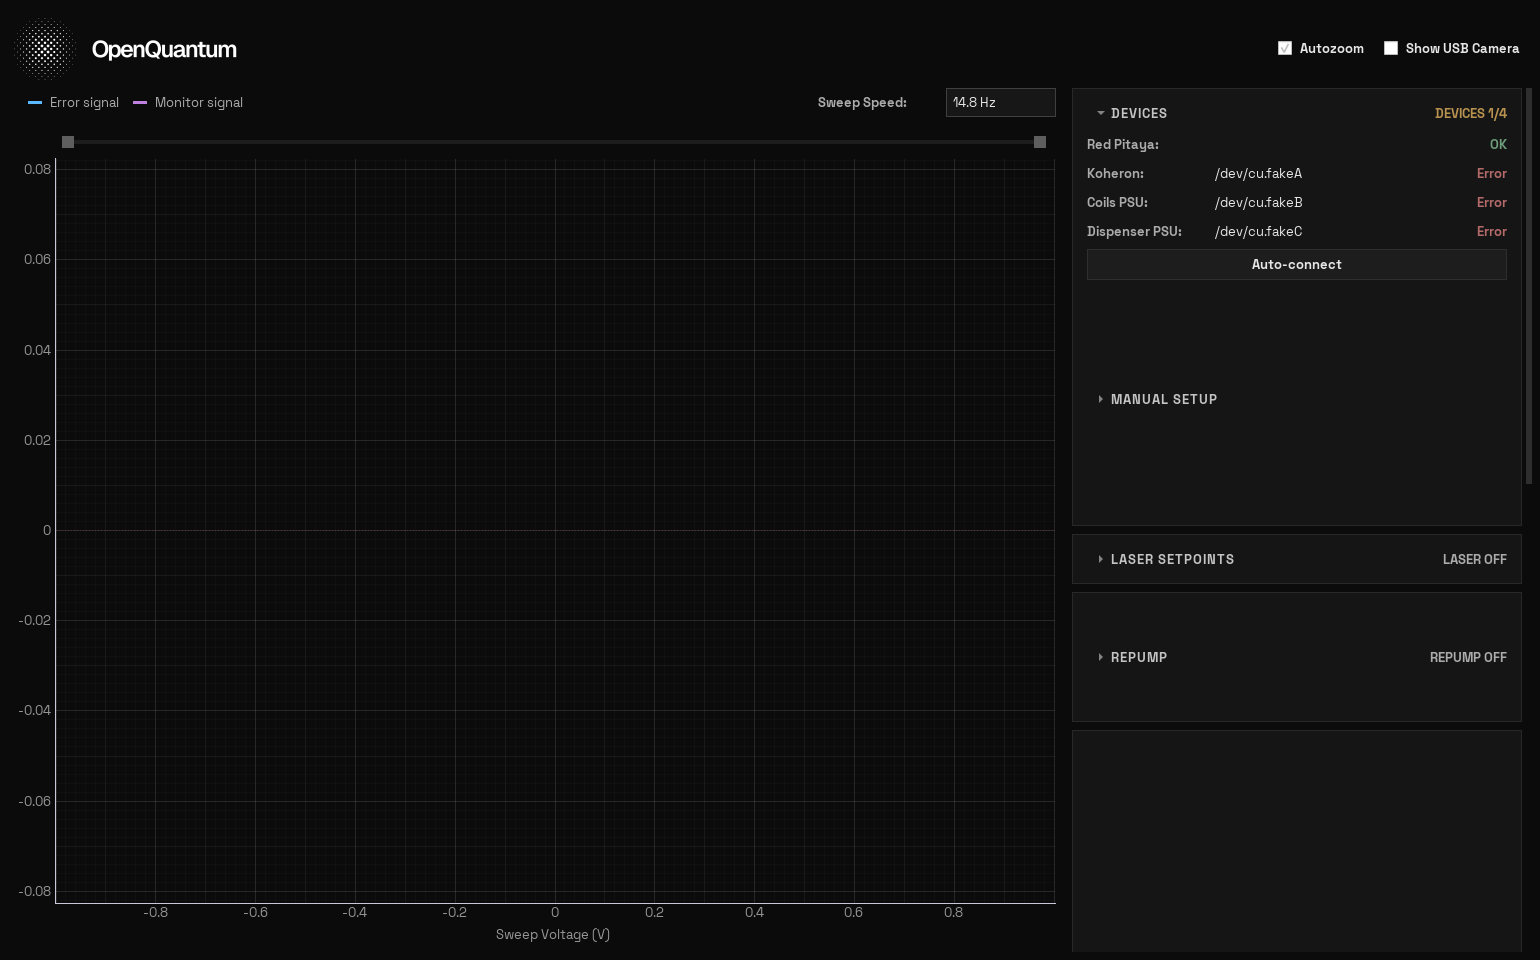
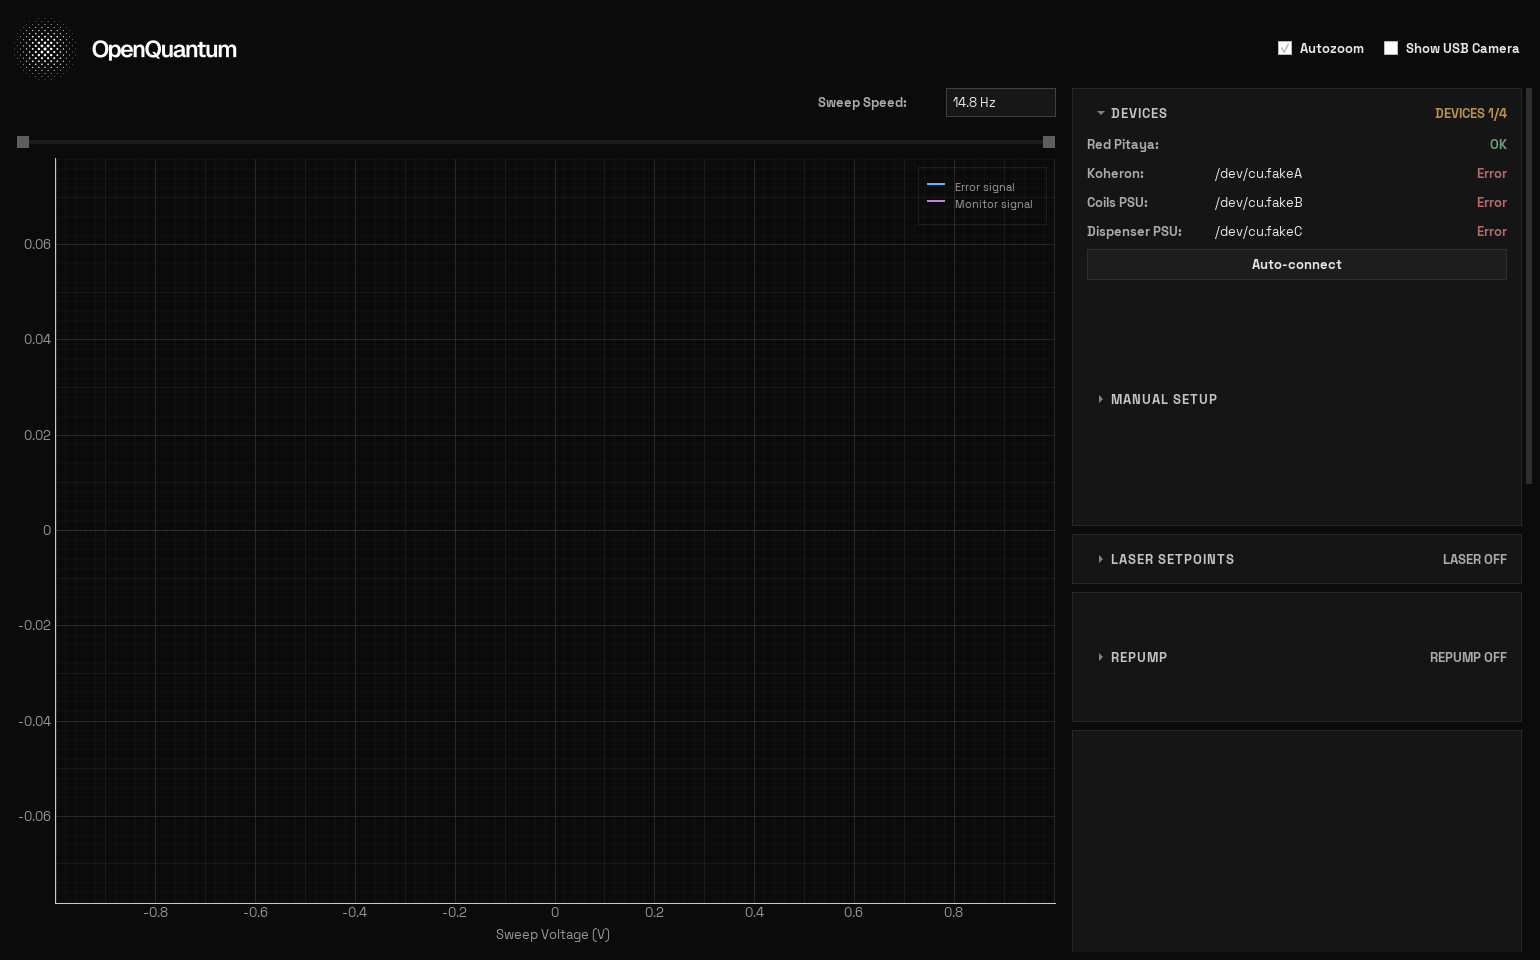
Put the legend back on the plot, compact; slider back to full width
The legend returns to the plot corner but much smaller than pyqtgraph's
default: 11px type, dimmer label colour, negative row spacing, and a
custom sample item drawing a 16px line rather than the default wide one.

addLegend has to run *before* the curves are created -- it only registers
named items added after it -- which is why the first attempt drew an
empty box.

The slider goes back to spanning the full widget width, so
_align_slider_to_plot and its resize/range hooks are gone.

diff --git a/linien_widget.py b/linien_widget.py
@@ -14,6 +14,20 @@ from superqt import QRangeSlider
 from styles import UI_FONT_PX, plot_label_style, style_plot_axes
 
 
+class _ShortLineSample(pg.ItemSample):
+    """Legend swatch: a short line instead of pyqtgraph's wide default."""
+
+    def boundingRect(self):
+        return QtCore.QRectF(0, 0, 16, 14)
+
+    def paint(self, painter, *args):
+        opts = self.item.opts
+        pen = pg.mkPen(opts["pen"])
+        pen.setWidth(2)
+        painter.setPen(pen)
+        painter.drawLine(0, 7, 16, 7)
+
+
 class LinienWidget(QtWidgets.QWidget):
     """Linien plot + lock controls for a Red Pitaya.
 
@@ -80,19 +94,8 @@ class LinienWidget(QtWidgets.QWidget):
                 background: #5e5e5e; width: 12px; border-radius: 0px; margin: -4px 0;
             }
         """)
-        # The slider spans the same x range as the plot below it, so it is
-        # inset to match the plot's data area. The y-axis width depends on
-        # the current tick labels, so the margin is applied on layout
-        # rather than hardcoded (see _align_slider_to_plot).
-        self._slider_box = QtWidgets.QWidget()
-        self._slider_box.setStyleSheet("background: transparent;")
-        self._slider_row = QtWidgets.QHBoxLayout(self._slider_box)
-        self._slider_row.setContentsMargins(0, 0, 0, 0)
-        self._slider_row.setSpacing(0)
-        self._slider_row.addWidget(self.xrange_slider)
-
         slider_proxy = QtWidgets.QGraphicsProxyWidget()
-        slider_proxy.setWidget(self._slider_box)
+        slider_proxy.setWidget(self.xrange_slider)
         self.pg_widget.addItem(slider_proxy, row=0, col=0)
         self.xrange_slider.valueChanged.connect(self._update_range)
 
@@ -131,15 +134,28 @@ class LinienWidget(QtWidgets.QWidget):
         self.original_xrange = self.plot.viewRange()[0]
         self.original_yrange = self.plot.viewRange()[1]
 
-        # No plot legend: the host places `self.legend` in the bar above,
-        # so nothing sits over the traces.
         self.ERROR_COLOR = "#5cb8ff"
         self.MONITOR_COLOR = "#c080e0"
+
+        # Compact legend in the corner: small type, tight spacing and a
+        # short sample line, so it reads as a key rather than a panel.
+        # Must be created *before* the curves -- addLegend only registers
+        # named items added after it.
+        self.legend = self.plot.addLegend(
+            offset=(-8, 8),
+            labelTextSize=f"{UI_FONT_PX - 2}px",
+            labelTextColor="#9a9a9a",
+            brush=pg.mkBrush(11, 11, 11, 170),
+            pen=pg.mkPen(40, 40, 40, 160),
+            verSpacing=-5,
+            horSpacing=4,
+            sampleType=_ShortLineSample,
+        )
+
         self.error_curve = self.plot.plot(
             pen=pg.mkPen(self.ERROR_COLOR, width=1.5), name="Error signal")
         self.monitor_curve = self.plot.plot(
             pen=pg.mkPen(self.MONITOR_COLOR, width=1.5), name="Monitor signal")
-        self.legend = self._build_legend()
 
         self.zero_line = pg.InfiniteLine(
             pos=0, angle=0,
@@ -148,9 +164,6 @@ class LinienWidget(QtWidgets.QWidget):
         self.plot.addItem(self.zero_line)
         self.view_box = self.plot.getViewBox()
         self.view_box.sigRangeChanged.connect(self._limit_xrange)
-        self.view_box.sigRangeChanged.connect(
-            lambda *_: self._align_slider_to_plot()
-        )
 
         # --- Autolock line selection (linien's PlotWidget overlays) ---
         # Created once and shown/hidden. Adding items per selection is what
@@ -230,26 +243,6 @@ class LinienWidget(QtWidgets.QWidget):
             self.stop_sweep_btn.setCursor(QtCore.Qt.PointingHandCursor)
             self.stop_sweep_btn.clicked.connect(self._stop_sweep)
             lock_row.addWidget(self.stop_sweep_btn)
-
-    def resizeEvent(self, event):
-        super().resizeEvent(event)
-        self._align_slider_to_plot()
-
-    def _align_slider_to_plot(self):
-        """Inset the slider to line up with the plot's data area.
-
-        The y-axis pushes the plot content right by however wide its tick
-        labels currently are, so this is measured rather than hardcoded --
-        the width changes as the trace rescales.
-        """
-        try:
-            box = self.view_box.sceneBoundingRect()
-            width = self.pg_widget.width()
-            left = max(0, int(box.left()))
-            right = max(0, int(width - box.right()))
-        except Exception:
-            return
-        self._slider_row.setContentsMargins(left, 0, right, 0)
 
     # --- Voltage ↔ display coordinate helpers ---
 
@@ -346,34 +339,6 @@ class LinienWidget(QtWidgets.QWidget):
         # mouse-driven zoom/pan to the sweep bounds.
         d_min, d_max = self._v_range_to_display(x_min, x_max)
         self.plot.setXRange(d_min, d_max, padding=0)
-
-    def _build_legend(self):
-        """Trace key for the host to place above the plot.
-
-        The swatches read the curve colours from the same constants the
-        pens use, so a colour change cannot leave the key stale.
-        """
-        box = QtWidgets.QWidget()
-        row = QtWidgets.QHBoxLayout(box)
-        row.setContentsMargins(0, 0, 0, 0)
-        row.setSpacing(8)
-        for color, text in (
-            (self.ERROR_COLOR, "Error signal"),
-            (self.MONITOR_COLOR, "Monitor signal"),
-        ):
-            swatch = QtWidgets.QLabel()
-            swatch.setFixedSize(14, 3)
-            swatch.setStyleSheet(f"background: {color}; border: none;")
-            row.addWidget(swatch, 0, QtCore.Qt.AlignVCenter)
-            label = QtWidgets.QLabel(text)
-            label.setStyleSheet(
-                "color: #ababab; background: transparent;"
-                f"font-size: {UI_FONT_PX}px; border: none;"
-            )
-            row.addWidget(label)
-            row.addSpacing(6)
-        return box
-
 
     def _limit_xrange(self):
         vb = self.plot.getViewBox()

diff --git a/mot_control.py b/mot_control.py
@@ -1215,10 +1215,6 @@ class OpenQuantumControlsWindow(QtWidgets.QMainWindow):
         sweep_row = QtWidgets.QHBoxLayout()
         sweep_row.setContentsMargins(20, 0, 8, 0)
         sweep_row.setSpacing(8)
-        # The trace key and sweep readouts belong at the left of this row,
-        # but the Linien widget that owns them is built below. Kept here
-        # so they can be inserted once it exists.
-        self._sweep_row = sweep_row
         sweep_row.addStretch()
         sweep_row.addWidget(self._small_label("Sweep Speed:"))
         self.sweep_speed_combo = QtWidgets.QComboBox()
@@ -1268,8 +1264,6 @@ class OpenQuantumControlsWindow(QtWidgets.QMainWindow):
             self.linien_widget.autozoom_check,
         )
 
-        # Trace key, at the left of the sweep row.
-        self._sweep_row.insertWidget(0, self.linien_widget.legend)
 
         self.camera_widget = CameraViewWidget()
         self.camera_widget.setVisible(False)
